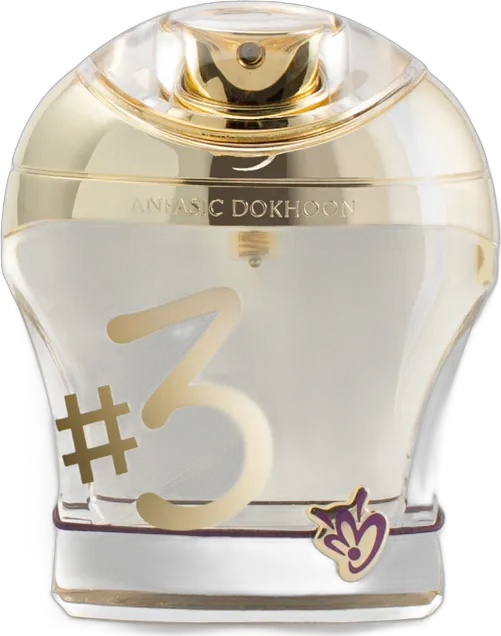
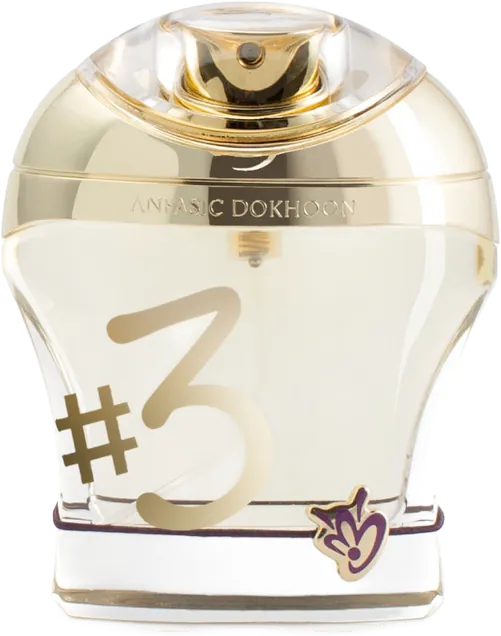
Bottle photos: make bottle interiors solid (no see-through glass)
Background removal, and some brand photos, left clear glass and white
bottles see-through. Everything inside the bottle outline is now solid,
see-through glass shown as photographed on white; only a large,
completely empty area (ring-shaped flacons) stays transparent.
'--refresh' re-cuts mapped photos from their recorded image URL.
(First part of the re-cut; the rest follows.)

Claude-Session: https://claude.ai/code/session_012Kp9DBwhxpcbKYKuNkRSwW

diff --git a/scripts/fetch-images.py b/scripts/fetch-images.py
@@ -160,6 +160,52 @@ def find_image(fr: dict):
 _session = None
 
 
+def fill_holes(cut, src):
+    """Background removal (and some brand photos) leave clear glass and white
+    bottles see-through. Make everything inside the bottle's outline solid,
+    showing see-through glass as it would look photographed on white, except a
+    big, completely empty area — a real gap in the design (ring-shaped flacons)."""
+    import numpy as np
+    from PIL import Image, ImageDraw
+    a = np.array(cut.getchannel('A')).astype(int)
+    src_a = np.array(src.getchannel('A')).astype(int) if src.mode == 'RGBA' else np.full(a.shape, 255)
+    eff = np.minimum(a, src_a)  # how opaque each pixel really is
+    rgb = np.array(src.convert('RGB')).astype(float)
+
+    def label(mask):
+        """Connected components of a boolean mask (flood fill on a real PIL copy)."""
+        img = Image.fromarray(mask.astype('uint8') * 255).copy()
+        comps = []
+        arr = np.array(img)
+        for y, x in zip(*np.nonzero(arr == 255)):
+            if np.array(img.getpixel((int(x), int(y)))) != 255:
+                continue
+            ImageDraw.floodfill(img, (int(x), int(y)), 100)
+            arr = np.array(img)
+            comp = arr == 100
+            comps.append(comp)
+            img.paste(0, mask=Image.fromarray(comp.astype('uint8') * 255))
+        return comps
+
+    solid = eff > 60
+    pad = Image.fromarray(np.pad(solid, 1).astype('uint8') * 255).copy()
+    ImageDraw.floodfill(pad, (0, 0), 128)
+    outside = np.array(pad)[1:-1, 1:-1] == 128
+    interior = ~outside
+    silhouette = interior.sum()
+    keep_clear = np.zeros(a.shape, bool)
+    gaps = interior & (eff < 40)
+    if gaps.any():
+        for comp in label(gaps):
+            if comp.sum() > 0.06 * silhouette:  # a real hole in the bottle design
+                keep_clear |= comp
+    fill = interior & ~keep_clear
+    k = (eff / 255.0)[..., None]
+    rgb_out = np.where(fill[..., None], rgb * k + 255 * (1 - k), rgb)
+    alpha = np.where(fill, 255, np.where(keep_clear, 0, a))
+    return Image.fromarray(np.dstack([rgb_out.clip(0, 255), alpha]).astype('uint8'), 'RGBA')
+
+
 def cutout(data: bytes):
     global _session
     from PIL import Image
@@ -169,6 +215,7 @@ def cutout(data: bytes):
     im = Image.open(io.BytesIO(data)).convert('RGBA')
     im.thumbnail((1100, 1100))
     out = remove(im, session=_session)
+    out = fill_holes(out, im)
     alpha = out.getchannel('A')
     bbox = alpha.point(lambda a: 255 if a > 24 else 0).getbbox()
     if not bbox:
@@ -226,15 +273,47 @@ def merge():
     print('merged, total mapped', len(mapping))
 
 
+def refresh(keys_file, shard):
+    mapping = json.loads(MAP.read_text())
+    keys = [k for k in json.loads(Path(keys_file).read_text()) if k in mapping]
+    if shard:
+        i, n = map(int, shard.split('/'))
+        keys = keys[i::n]
+    print(f'{len(keys)} to refresh')
+    def dl(k):
+        try:
+            return k, get(mapping[k]['image'])
+        except Exception as e:
+            return k, None
+    with cf.ThreadPoolExecutor(max_workers=6) as ex:
+        for j, (k, data) in enumerate(ex.map(dl, keys), 1):
+            if not data:
+                print('  - download failed', k)
+                continue
+            webp, why = cutout(data)
+            if webp:
+                (OUT / mapping[k]['file']).write_bytes(webp)
+            else:
+                print('  -', k, why)
+            if j % 25 == 0:
+                print(f'  {j}/{len(keys)}')
+    print('refresh done')
+
+
 def main():
     if '--merge' in sys.argv:
         return merge()
+    if '--refresh' in sys.argv:
+        i = sys.argv.index('--refresh')
+        shard = sys.argv[sys.argv.index('--shard') + 1] if '--shard' in sys.argv else None
+        return refresh(sys.argv[i + 1], shard)
     ap = argparse.ArgumentParser()
     ap.add_argument('--sample', action='store_true')
     ap.add_argument('--distributed', action='store_true')
     ap.add_argument('--brand', action='append')
     ap.add_argument('--redo', action='append')
     ap.add_argument('--force', action='store_true', help='redo targets even if already mapped')
+    ap.add_argument('--refresh', help='JSON list of mapped keys to re-cut from their recorded image URL')
     ap.add_argument('--shard', help='i/n: process only every n-th target (parallel runs)')
     args = ap.parse_args()
     global MAP
